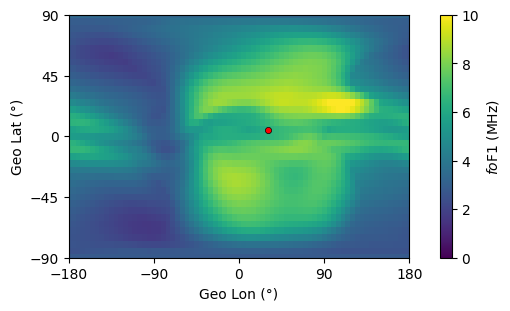
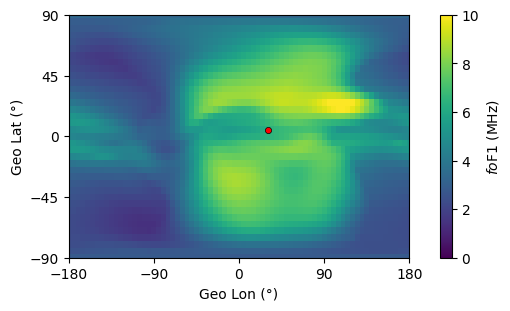
bug fix

Changed region(s): [[0.6176, 0.3183, 0.8235, 0.5209], [0.1176, 0.3473, 0.2353, 0.5209]]

diff --git a/PyIRI/sh_library.py b/PyIRI/sh_library.py
@@ -1874,7 +1874,7 @@ def derive_dependent_F1_parameters(P, NmF2, hmF2, B0, B1, hmE,
     norm_P = (np.clip(norm_shifted + 0.5, 0.5, 1) - 0.5) / 0.5
 
     # Estimate the F1 layer peak height (hmF1) using the B0 information
-    hmF1 = hmF2 - B0 * 0.875
+    hmF1 = hmF2 - B0
 
     # Don't let it go below 180 km.
     hmF1[hmF1 <= 180.] = 180.

diff --git a/docs/citing.rst b/docs/citing.rst
@@ -29,7 +29,7 @@ examples here are from the second release.
     title        = {victoriyaforsythe/PyIRI},
     year         = 2025,
     publisher    = {Zenodo},
-    version      = {v0.1.4},
+    version      = {v0.1.5},
     doi          = {10.5281/zenodo.17479366},
     url          = {https://github.com/victoriyaforsythe/PyIRI}
   }

diff --git a/CHANGELOG.md b/CHANGELOG.md
@@ -2,6 +2,9 @@
 All notable changes to this project are documented in this file. This project
 adheres to [Semantic Versioning](https://semver.org/).
 
+## 0.1.5 (11-25-2025)
+* Fixed bug in F1 layer formula.
+
 ## 0.1.4 (11-20-2025)
 * Updated formulation of F1 layer that is now consistent with SAMI-4.
 
